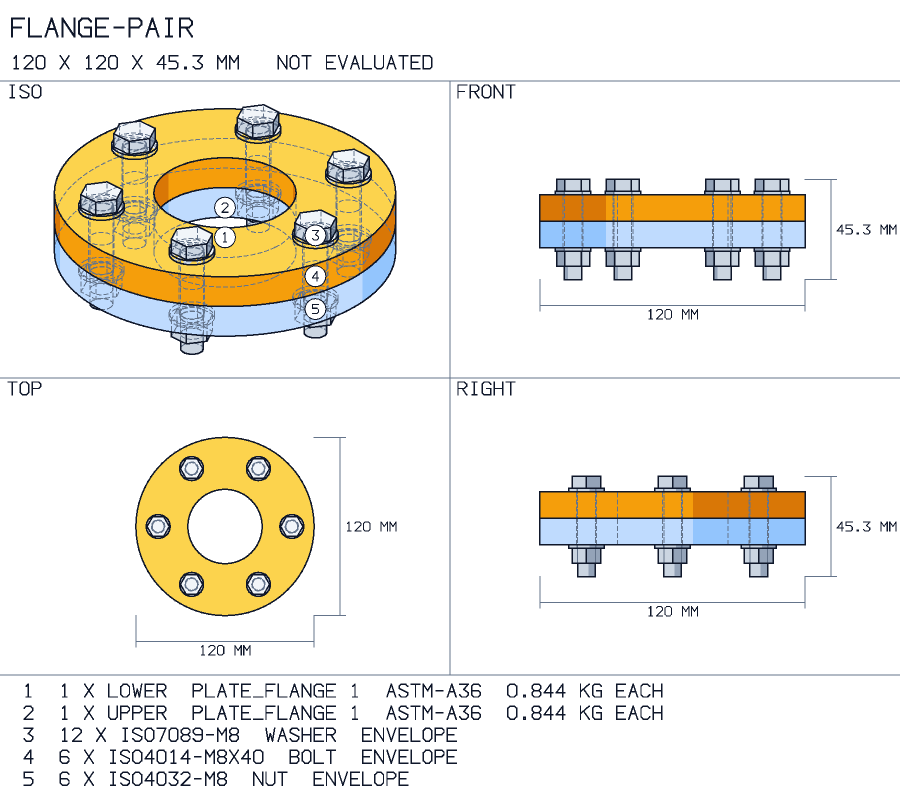
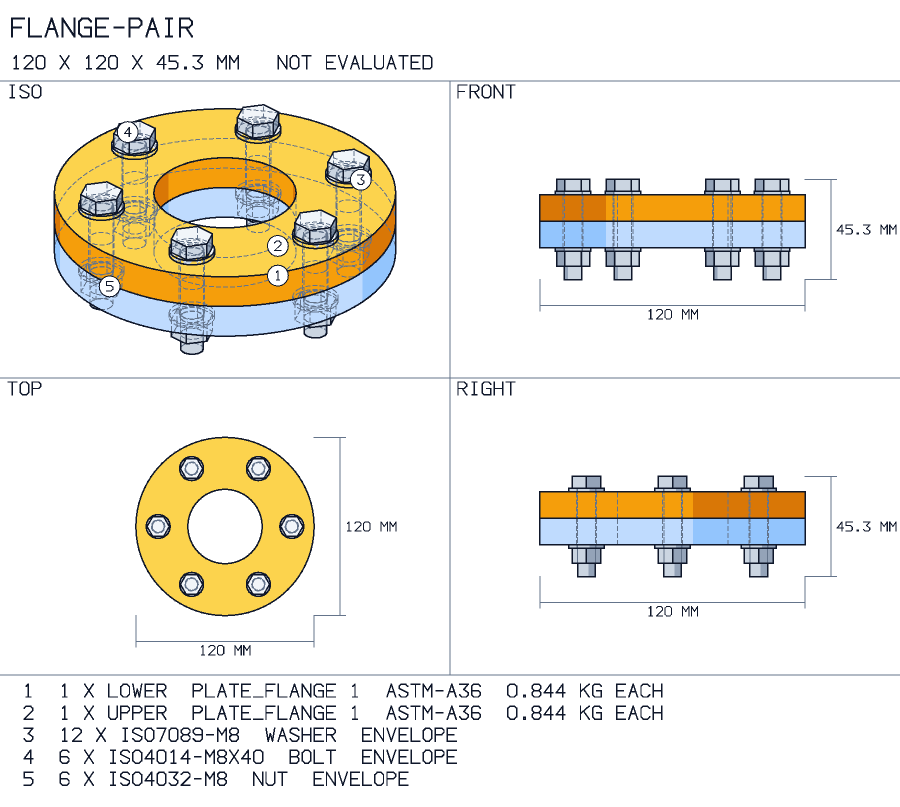
fix(combination): a balloon sits on its own part, and no two share a place
Two flanges on one axis had both balloons in the bore, at the middle of each part's box,
and a bolt, its washer and its nut were three balloons on one stack. A balloon is now
placed on the largest of its part's faces that the view sees, and a fastener in several
holes is marked in a different hole from the one before it. A test holds them apart.

diff --git a/src/anvilate/projection.py b/src/anvilate/projection.py
@@ -348,7 +348,7 @@ def _view_markup(
     dimensions: bool,
     unit: str = "mm",
     palettes: Mapping[str, tuple[str, str, str]] | None = None,
-    marks: Sequence[tuple[str, Vec]] = (),
+    marks: Sequence[tuple[str, str]] = (),
 ) -> list[str]:
     camera = _Camera(shape, view)
     visible, hidden = _hidden_lines(shape, camera)
@@ -390,8 +390,21 @@ def _view_markup(
         )
     size = max(8.0, min(11.0, w / 40))
     drawn: list[Point] = []
-    for label, at in marks:
-        centre = sheet.at(camera.flat(at))
+    for label, tag in marks:
+        # On the body's own visible surface: the middle of the largest of its triangles
+        # that face the eye. The middle of a body's box is in the bore of a ring, and two
+        # rings on one axis had their balloons in the same empty place.
+        mine = [(depth, corners) for depth, _tone, face_tag, corners in faces if face_tag == tag]
+        if not mine:
+            continue
+        # Among the quarter of them nearest the eye, so the choice is a face that is seen
+        # and not a bolt's shank inside its hole.
+        nearest, farthest = max(d for d, _c in mine), min(d for d, _c in mine)
+        front = [c for d, c in mine if d >= nearest - 0.25 * (nearest - farthest)]
+        widest = max(front, key=_triangle_area)
+        centre = sheet.at(
+            (sum(point[0] for point in widest) / 3, sum(point[1] for point in widest) / 3)
+        )
         # Bodies stacked in one hole would have their balloons on top of each other, so a
         # balloon that lands on an earlier one steps to the right of it.
         while any(math.dist(centre, other) < size * 2.6 for other in drawn):
@@ -399,6 +412,11 @@ def _view_markup(
         drawn.append(centre)
         out += _balloon(label, centre, size)
     return out
+
+
+def _triangle_area(corners: Sequence[Point]) -> float:
+    (ax, ay), (bx, by), (cx, cy) = corners
+    return abs((bx - ax) * (cy - ay) - (cx - ax) * (by - ay)) / 2
 
 
 def _balloon(label: str, centre: Point, height: float) -> list[str]:
@@ -545,19 +563,7 @@ def render_assembly(
         else:
             palettes[str(index)] = ASSEMBLY_PALETTES[designed % len(ASSEMBLY_PALETTES)]
             designed += 1
-    balloons = []
-    for label, index in marks:
-        box = bodies[index][1].bounding_box()
-        balloons.append(
-            (
-                label,
-                (
-                    (box.min.X + box.max.X) / 2,
-                    (box.min.Y + box.max.Y) / 2,
-                    (box.min.Z + box.max.Z) / 2,
-                ),
-            )
-        )
+    balloons = [(label, str(index)) for label, index in marks]
     views_px = max(64, round(width_px * 0.75))
     header = max(40.0, views_px * 0.12)
     cell_w, cell_h = width_px / 2, (views_px - header) / 2

diff --git a/tools/audit/inventory.py b/tools/audit/inventory.py
@@ -101,7 +101,7 @@ _FINDINGS = """## Findings
 | 11 | Codex has not been run at all. | Not installed where this audit ran. | **Open.** The registration line is in the README; the harness has no Codex runner yet. |
 | 12 | Install is `git clone`. | There is no `anvilate` on the package index; a CI job watches for the day there is. | **Open, the owner's decision.** Publishing is outward-facing and was not done. |
 | 13 | The independent STEP reader has not seen the new files. | The scheduled referee job now covers 26 patterns and 5 assemblies and last ran before them. | **Open.** Run the `step-referee` job; a warning it reports is a finding. |
-| 14 | In a combination's picture, two parts on one axis share a balloon position. | The flange pair: balloons 1 and 2 both sit in the bore. | **Open.** Balloons step aside when they collide; placing each on its own part's surface is the fix. |
+| 14 | In a combination's picture, two parts on one axis shared a balloon position, and a bolt, its washer and its nut were three balloons on one stack. | The flange pair: balloons 1 and 2 both sat in the bore. | **Fixed.** A balloon sits on its own part's visible surface, and a fastener in several holes is marked in a different hole from the one before it. A test holds the balloons apart. |
 | 15 | Four tools are in no journey a user asks for: `compile_spec`, `run_fea_validation`, `measure_geometry` and `read_scorecard`. | The journeys column of the tools table above. | **Proposed, not applied.** The first two are findings 7 and 8. The other two are an agent checking its own work, and earn their place only if a measured run shows a model using them; that is part of finding 10. |
 """
 

diff --git a/tests/test_combination.py b/tests/test_combination.py
@@ -481,3 +481,24 @@ def test_a_part_is_listed_after_the_parts_it_is_placed_on():
 
     with pytest.raises(CombinationError, match="comes after it; list a part after"):
         _built("portal_frame", out_of_order)
+
+
+def test_each_balloon_sits_on_its_own_part_and_no_two_share_a_place():
+    """Two flanges on one axis had both balloons in the bore, at the middle of each part's
+    box, and a bolt, its washer and its nut were three balloons on one stack."""
+    built = _built("flange_pair")
+    svg, _width, _height = render_combination(built, width_px=900, format="svg")
+    centres = {}
+    for label, points in re.findall(r'data-balloon="(\d+)" points="([^"]+)"', svg.decode("utf-8")):
+        pairs = [tuple(map(float, point.split(","))) for point in points.split()]
+        centres[label] = (
+            sum(x for x, _y in pairs) / len(pairs),
+            sum(y for _x, y in pairs) / len(pairs),
+        )
+    assert sorted(centres) == ["1", "2", "3", "4", "5"]
+    labels = sorted(centres)
+    for index, first in enumerate(labels):
+        for second in labels[index + 1 :]:
+            assert math.dist(centres[first], centres[second]) > 18, (first, second)
+    # The two flanges' balloons are apart from top to bottom, as the flanges are.
+    assert centres["1"][1] > centres["2"][1]

diff --git a/src/anvilate/combination.py b/src/anvilate/combination.py
@@ -1254,11 +1254,15 @@ def _numbered(built: BuiltCombination) -> tuple[list[tuple[str, Any, bool]], lis
     bodies = [(part.id, part.shape, bool(part.built.envelope)) for part in built.parts]
     bodies += [(body.designation, body.shape, True) for body in built.hardware]
     item = {line.name: line.item for line in built.bom}
-    marks, seen = [], set()
+    places: dict[str, list[int]] = {}
     for index, (label, _solid, _envelope) in enumerate(bodies):
-        if label not in seen:
-            seen.add(label)
-            marks.append((str(item[label]), index))
+        places.setdefault(label, []).append(index)
+    # One balloon per line of the parts list. A fastener that is in several holes is
+    # marked in a different hole from the one before it, so the bolt, its washer and its
+    # nut are not three balloons on one stack.
+    marks = []
+    for turn, (label, indices) in enumerate(places.items()):
+        marks.append((str(item[label]), indices[turn % len(indices)]))
     return bodies, marks
 
 

diff --git a/README.md b/README.md
@@ -186,7 +186,7 @@ Units are first-class — mix `kip`, `ksi`, `in`, `mm` and `MPa` freely.
 ## What's inside
 
 - **Screening packs** for structural steel, cold-formed steel, aluminum, concrete, masonry, timber, geotechnical, hydraulics, pressure vessels, process piping, lifting devices, machinery, and building services — each check naming the clause it came from.
-- **An analytical library** (237 closed-form modules and 1,883 public symbols, each dimension-checked and tested; 8,072 tests), with machine-readable repairs now spanning units, tolerances, manufacturing quality, geometry, casting, casting gating, centrifugal casting, injection molding, sheet-metal bending and drawing, wire drawing, shear spinning, thermoforming, extrusion, forging, rolling, conventional machining, broaching, drilling, grinding, EDM, electrochemical machining, laser cutting, weld design, arc-welding heat input, resistance welding, electroplating, shot peening, wear, corrosion and asset integrity, Hall–Petch strengthening, creep and rupture life, elastic constants, axial response, stress combination and concentration, reinforced- and prestressed-concrete response, masonry allowable-stress design, timber member, record, and stability design, aluminum member and weld-affected design, cold-formed-steel effective-width and Direct Strength Method checks, structural load combinations, steel compactness, elastic foundations, riveted joints, O-ring glands, lifting mechanics, work-energy, impact and friction mechanics, power transmission, living hinges, ball screws, centrifugal governors, mechanism kinematics, fundamental motion, gravitation, radioactivity, and radiation shielding, electromechanical sensors, surface engineering, fluid storage, HVAC duct and fan sizing, compressible flow, gas compression, combustion, chemical equilibria, geometric, wave, and instrument optics, quantum photonics, shaft torsion, springs, and shared branch-selector inputs; every analysis module now raises its refusals with a structured remedy naming the parameter to correct, and [a ledger](docs/api/raised-refusals-without-remedies.txt) counts the core refusals still waiting for one.
+- **An analytical library** (237 closed-form modules and 1,883 public symbols, each dimension-checked and tested; 8,073 tests), with machine-readable repairs now spanning units, tolerances, manufacturing quality, geometry, casting, casting gating, centrifugal casting, injection molding, sheet-metal bending and drawing, wire drawing, shear spinning, thermoforming, extrusion, forging, rolling, conventional machining, broaching, drilling, grinding, EDM, electrochemical machining, laser cutting, weld design, arc-welding heat input, resistance welding, electroplating, shot peening, wear, corrosion and asset integrity, Hall–Petch strengthening, creep and rupture life, elastic constants, axial response, stress combination and concentration, reinforced- and prestressed-concrete response, masonry allowable-stress design, timber member, record, and stability design, aluminum member and weld-affected design, cold-formed-steel effective-width and Direct Strength Method checks, structural load combinations, steel compactness, elastic foundations, riveted joints, O-ring glands, lifting mechanics, work-energy, impact and friction mechanics, power transmission, living hinges, ball screws, centrifugal governors, mechanism kinematics, fundamental motion, gravitation, radioactivity, and radiation shielding, electromechanical sensors, surface engineering, fluid storage, HVAC duct and fan sizing, compressible flow, gas compression, combustion, chemical equilibria, geometric, wave, and instrument optics, quantum photonics, shaft torsion, springs, and shared branch-selector inputs; every analysis module now raises its refusals with a structured remedy naming the parameter to correct, and [a ledger](docs/api/raised-refusals-without-remedies.txt) counts the core refusals still waiting for one.
 - **Drawable parts and combinations:** plates, brackets, flanges, spacers, shafts, gear pairs, bearings, rolled members, lifting lugs, sheet-metal brackets and enclosures, each built from one shared feature library, and combinations that place them by the holes and faces they share. A part with no strength screen says so, and its files carry the unvalidated mark. See the [parts catalog](docs/parts-catalog.md) and [combinations](docs/combinations.md).
 - **Reading your existing files:** STEP, DXF, STL and 3MF measured exactly, in millimetres, inside the folder you name; a value taken from a file cites it, and one an agent read off a picture stays a draft until you confirm it.
 - **Reports and exports:** calculation reports (text, HTML, PDF), DXF, STEP, 3MF and QIF — written only when the checks pass, or stamped `UNVALIDATED`, with machine-readable repairs when geometry cannot be released.

diff --git a/docs/agent-surface-audit.md b/docs/agent-surface-audit.md
@@ -120,5 +120,5 @@ is worth trading correctness for; the kernel is imported only by the calls that 
 | 11 | Codex has not been run at all. | Not installed where this audit ran. | **Open.** The registration line is in the README; the harness has no Codex runner yet. |
 | 12 | Install is `git clone`. | There is no `anvilate` on the package index; a CI job watches for the day there is. | **Open, the owner's decision.** Publishing is outward-facing and was not done. |
 | 13 | The independent STEP reader has not seen the new files. | The scheduled referee job now covers 26 patterns and 5 assemblies and last ran before them. | **Open.** Run the `step-referee` job; a warning it reports is a finding. |
-| 14 | In a combination's picture, two parts on one axis share a balloon position. | The flange pair: balloons 1 and 2 both sit in the bore. | **Open.** Balloons step aside when they collide; placing each on its own part's surface is the fix. |
+| 14 | In a combination's picture, two parts on one axis shared a balloon position, and a bolt, its washer and its nut were three balloons on one stack. | The flange pair: balloons 1 and 2 both sat in the bore. | **Fixed.** A balloon sits on its own part's visible surface, and a fastener in several holes is marked in a different hole from the one before it. A test holds the balloons apart. |
 | 15 | Four tools are in no journey a user asks for: `compile_spec`, `run_fea_validation`, `measure_geometry` and `read_scorecard`. | The journeys column of the tools table above. | **Proposed, not applied.** The first two are findings 7 and 8. The other two are an agent checking its own work, and earn their place only if a measured run shows a model using them; that is part of finding 10. |
